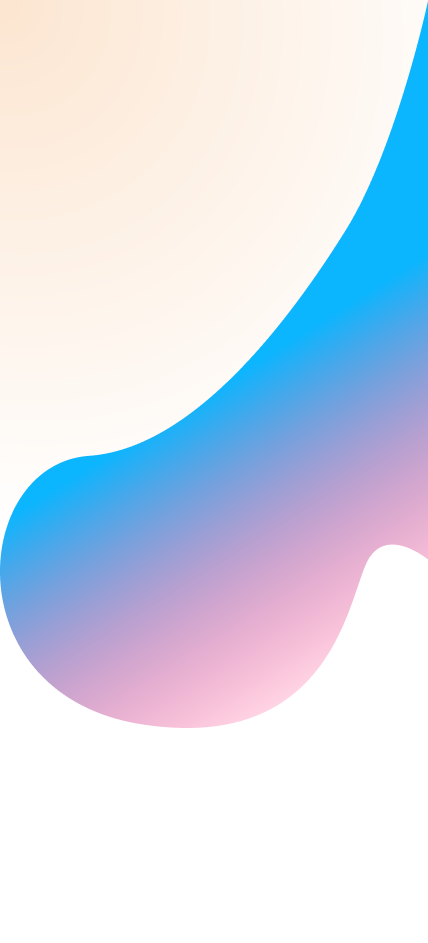
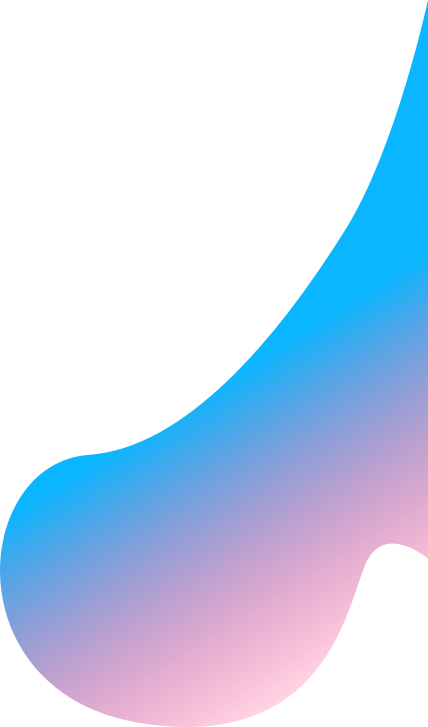
Настроить контент

diff --git a/src/css/style.min.css b/src/css/style.min.css
@@ -1,1 +1,1 @@
-@import'../fonts/Montserrat/stylesheet.css';@import'../fonts/ProtoSans/stylesheet.css';.container{width:100%;height:100%}*,*::before,*::after{-webkit-box-sizing:border-box;box-sizing:border-box;margin:0;padding:0}html{font-size:16px;-webkit-text-size-adjust:100%}body{font-family:pr-montserrat,sans-serif;line-height:1.5;color:#343434;background-color:#fff;-webkit-font-smoothing:antialiased;-moz-osx-font-smoothing:grayscale}a,a:link,a:visited{text-decoration:none;color:inherit}a:hover{text-decoration:none}aside,nav,footer,header,section,main{display:block}h1,h2,h3,h4,h5,h6,p{font-size:inherit;font-weight:inherit}ul,ol{list-style:none}img{max-width:100%;height:auto;display:block}img,svg{max-width:100%;height:auto}address{font-style:normal}input,textarea,button,select{font-family:inherit;font-size:inherit;color:inherit;background-color:rgba(0,0,0,0)}input::-ms-clear{display:none}button,input[type=submit]{display:inline-block;-webkit-box-shadow:none;box-shadow:none;background-color:rgba(0,0,0,0);background:none;cursor:pointer}input:focus,input:active,button:focus,button:active{outline:none}button::-moz-focus-inner{padding:0;border:0}label{cursor:pointer}legend{display:block}html,body{font-family:pr-montserrat,sans-serif}.header:has(.header__req-button>input:checked) .modal{opacity:1;z-index:1000}.header:has(.header__req-button>input:checked) .modal__content{top:50dvh;-webkit-transform:translate(-50%, -50%);transform:translate(-50%, -50%)}.header__content{display:-webkit-box;display:-ms-flexbox;display:flex;-webkit-box-pack:justify;-ms-flex-pack:justify;justify-content:space-between;-webkit-box-align:center;-ms-flex-align:center;align-items:center;-webkit-column-gap:20px;-moz-column-gap:20px;column-gap:20px;width:min(1700px,90dvw);height:100px;margin-inline:auto;padding:20px;background-color:#fff;position:fixed;top:0;left:50%;-webkit-transform:translateX(-50%);transform:translateX(-50%);z-index:2000}.header__content::after{content:"";position:absolute;top:100%;left:0;width:100%;height:2px;background-image:linear-gradient(179.35deg, rgb(10.6250047684, 181.6874542236, 255), rgb(255, 4.2499961853, 94.52003479) 100%)}.header__logo{height:60%}.header__logo-src{height:100%}.header__req-button{display:-webkit-box;display:-ms-flexbox;display:flex;-webkit-box-align:center;-ms-flex-align:center;align-items:center;-webkit-column-gap:10px;-moz-column-gap:10px;column-gap:10px;padding:10px;border:1px solid #ff055f;border-radius:5px;-webkit-transition:scale .2s ease;transition:scale .2s ease;-webkit-user-select:none;-moz-user-select:none;-ms-user-select:none;user-select:none}.header__req-button::before{content:"";width:21px;height:23px;background:url("../img/icons/form-btn--open.svg") center/cover no-repeat;-ms-flex-negative:0;flex-shrink:0}.header__req-button:hover{scale:1.05}.header__req-button label{color:#ff055f}.header__req-button input{display:none}.container{max-width:1330px;margin-inline:auto;padding:0 20px}.modal{width:100dvw;min-height:100dvh;background-color:#eaeaea;opacity:0;position:fixed;top:0;left:0;z-index:-1000;-webkit-transition:opacity .5s ease;transition:opacity .5s ease;overflow-y:scroll}.modal.active{opacity:1;z-index:1000}.modal__content{max-width:calc(100dvw - 40px);position:absolute;top:0;left:50%;-webkit-transform:translate(-50%, -100%);transform:translate(-50%, -100%);-webkit-transition:top .5s ease,-webkit-transform .2s ease;transition:top .5s ease,-webkit-transform .2s ease;transition:top .5s ease,transform .2s ease;transition:top .5s ease,transform .2s ease,-webkit-transform .2s ease}@media screen and (max-height: 768px){.modal__content{top:100px !important;-webkit-transform:translate(-50%, 20px) !important;transform:translate(-50%, 20px) !important}}.modal.active .modal__content{top:50dvh;-webkit-transform:translate(-50%, -50%);transform:translate(-50%, -50%)}.request{width:min(754px,100%);padding:min(60px,8%);background-color:#fff;border-radius:20px}.request__title{text-align:center;font-weight:700;font-size:32px;margin-bottom:min(60px,5dvh)}.request__form{display:-webkit-box;display:-ms-flexbox;display:flex;-webkit-box-orient:vertical;-webkit-box-direction:normal;-ms-flex-direction:column;flex-direction:column;-webkit-box-align:center;-ms-flex-align:center;align-items:center}.request__form input{width:100%;height:55px;padding:20px;margin-bottom:min(60px,5dvh);background-color:#eaeaea;border-radius:20px;border:none}.request__form input::-webkit-input-placeholder{color:#fff}.request__form input::-moz-placeholder{color:#fff}.request__form input:-ms-input-placeholder{color:#fff}.request__form input::-ms-input-placeholder{color:#fff}.request__form input::placeholder{color:#fff}.request__submit{width:min(300px,100%);height:73px;background-color:#0bb6ff;color:#fff;border-radius:20px;border:none}
+@import'../fonts/Montserrat/stylesheet.css';@import'../fonts/ProtoSans/stylesheet.css';.container,.hero__content,.hero__background{width:100%;height:100%}*,*::before,*::after{-webkit-box-sizing:border-box;box-sizing:border-box;margin:0;padding:0}html{font-size:16px;-webkit-text-size-adjust:100%}body{font-family:pr-montserrat,sans-serif;line-height:1.5;color:#343434;background-color:#fff;-webkit-font-smoothing:antialiased;-moz-osx-font-smoothing:grayscale}a,a:link,a:visited{text-decoration:none;color:inherit}a:hover{text-decoration:none}aside,nav,footer,header,section,main{display:block}h1,h2,h3,h4,h5,h6,p{font-size:inherit;font-weight:inherit}ul,ol{list-style:none}img{max-width:100%;height:auto;display:block}img,svg{max-width:100%;height:auto}address{font-style:normal}input,textarea,button,select{font-family:inherit;font-size:inherit;color:inherit;background-color:rgba(0,0,0,0)}input::-ms-clear{display:none}button,input[type=submit]{display:inline-block;-webkit-box-shadow:none;box-shadow:none;background-color:rgba(0,0,0,0);background:none;cursor:pointer}input:focus,input:active,button:focus,button:active{outline:none}button::-moz-focus-inner{padding:0;border:0}label{cursor:pointer}legend{display:block}html,body{font-family:pr-montserrat,sans-serif}.header:has(.header__req-button>input:checked) .modal{opacity:1;z-index:1000}.header:has(.header__req-button>input:checked) .modal__content{top:50dvh;-webkit-transform:translate(-50%, -50%);transform:translate(-50%, -50%)}.header__content{display:-webkit-box;display:-ms-flexbox;display:flex;-webkit-box-pack:justify;-ms-flex-pack:justify;justify-content:space-between;-webkit-box-align:center;-ms-flex-align:center;align-items:center;-webkit-column-gap:20px;-moz-column-gap:20px;column-gap:20px;width:min(1700px,90dvw);height:100px;margin-inline:auto;padding:20px;background-color:#fff;position:fixed;top:0;left:50%;-webkit-transform:translateX(-50%);transform:translateX(-50%);z-index:2000}.header__content::after{content:"";position:absolute;top:100%;left:0;width:100%;height:2px;background-image:linear-gradient(179.35deg, rgb(10.6250047684, 181.6874542236, 255), rgb(255, 4.2499961853, 94.52003479) 100%)}.header__logo{height:60%}.header__logo-src{height:100%}.header__req-button{display:-webkit-box;display:-ms-flexbox;display:flex;-webkit-box-align:center;-ms-flex-align:center;align-items:center;-webkit-column-gap:10px;-moz-column-gap:10px;column-gap:10px;padding:10px;border:1px solid #ff055f;border-radius:5px;-webkit-transition:scale .2s ease;transition:scale .2s ease;-webkit-user-select:none;-moz-user-select:none;-ms-user-select:none;user-select:none}.header__req-button::before{content:"";width:21px;height:23px;background:url("../img/icons/form-btn--open.svg") center/cover no-repeat;-ms-flex-negative:0;flex-shrink:0}.header__req-button:hover{scale:1.05}.header__req-button label{color:#ff055f}.header__req-button input{display:none}.hero{position:relative;height:100dvh}.hero__content{position:relative;z-index:2}.hero__background{position:absolute;inset:0}.hero__content{width:calc(100% - 1020px);padding-top:120px}.hero__background-main{height:91.2037037037%;aspect-ratio:1023/806;position:absolute;top:0;right:0}.hero__blob{height:76.1421319797%;position:absolute;top:0;right:0}.hero__general-image{height:67.9187817259%;aspect-ratio:1.153961136;padding-left:20px;border:4px solid #fff;border-radius:20px;-webkit-box-shadow:0px 4px 50px 0px rgba(0,0,0,.25);box-shadow:0px 4px 50px 0px rgba(0,0,0,.25);backdrop-filter:blur(30px);background:hsla(0,0%,100%,.8);position:absolute;top:50%;right:0;-webkit-transform:translateY(-50%);transform:translateY(-50%)}.hero__panel{height:49.6263079223%;position:absolute;top:20px;left:0;-webkit-transform:translateX(-75%);transform:translateX(-75%);z-index:2}.hero__background-mobile{display:none}.hero__background-mobile>img{width:100%}@media screen and ((max-width: 768px) or (orientation: portrait)){.hero__background-main{display:none}.hero__background-mobile{display:block}}.container{max-width:1330px;margin-inline:auto;padding:0 20px}.modal{width:100dvw;min-height:100dvh;background-color:#eaeaea;opacity:0;position:fixed;top:0;left:0;z-index:-1000;-webkit-transition:opacity .5s ease;transition:opacity .5s ease;overflow-y:scroll}.modal.active{opacity:1;z-index:1000}.modal__content{max-width:calc(100dvw - 40px);position:absolute;top:0;left:50%;-webkit-transform:translate(-50%, -100%);transform:translate(-50%, -100%);-webkit-transition:top .5s ease,-webkit-transform .2s ease;transition:top .5s ease,-webkit-transform .2s ease;transition:top .5s ease,transform .2s ease;transition:top .5s ease,transform .2s ease,-webkit-transform .2s ease}@media screen and (max-height: 768px){.modal__content{top:100px !important;-webkit-transform:translate(-50%, 20px) !important;transform:translate(-50%, 20px) !important}}.modal.active .modal__content{top:50dvh;-webkit-transform:translate(-50%, -50%);transform:translate(-50%, -50%)}.request{width:min(754px,100%);padding:min(60px,8%);background-color:#fff;border-radius:20px}.request__title{text-align:center;font-weight:700;font-size:32px;margin-bottom:min(60px,5dvh)}.request__form{display:-webkit-box;display:-ms-flexbox;display:flex;-webkit-box-orient:vertical;-webkit-box-direction:normal;-ms-flex-direction:column;flex-direction:column;-webkit-box-align:center;-ms-flex-align:center;align-items:center}.request__form input{width:100%;height:55px;padding:20px;margin-bottom:min(60px,5dvh);background-color:#eaeaea;border-radius:20px;border:none}.request__form input::-webkit-input-placeholder{color:#fff}.request__form input::-moz-placeholder{color:#fff}.request__form input:-ms-input-placeholder{color:#fff}.request__form input::-ms-input-placeholder{color:#fff}.request__form input::placeholder{color:#fff}.request__submit{width:min(300px,100%);height:73px;background-color:#0bb6ff;color:#fff;border-radius:20px;border:none}

diff --git a/src/scss/layout/_hero.scss b/src/scss/layout/_hero.scss
@@ -1,0 +1,82 @@
+.hero {
+    @include section-position;
+    height: 100dvh;
+
+    $background-width-main: 1920 - 900;
+    $background-height-main: 1080 - 95;
+
+    $general-image-width: 772;
+    $general-image-height: 669;
+
+    $panel-height: 332;
+
+    $blob-height-main: 750;
+
+    &__content {
+        width: calc(100% - #{$background-width-main}px);
+        padding-top: $header-height + $grid-gap;
+    }
+
+    &__background-main {
+        height: ($background-height-main) / 1080 * 100%;
+        aspect-ratio: 1023 / 806;
+
+        position: absolute;
+        top: 0;
+        right: 0;
+    }
+
+    &__blob {
+        height: $blob-height-main / $background-height-main * 100%;
+
+        position: absolute;
+        top: 0;
+        right: 0;
+    }
+
+    &__general-image {
+        height: $general-image-height / $background-height-main * 100%;
+        aspect-ratio: $general-image-width / $general-image-height;
+
+        padding-left: $grid-gap;
+
+        border: 4px solid rgba(255, 255, 255, 1);
+        border-radius: 20px;
+        box-shadow: 0px 4px 50px 0px rgba(0, 0, 0, 0.25);
+        backdrop-filter: blur(30px);
+        background: rgba(255, 255, 255, 0.8);
+
+        position: absolute;
+        top: 50%;
+        right: 0;
+        transform: translateY(-50%);
+    }
+
+    &__panel {
+        height: $panel-height / $general-image-height * 100%;
+
+        position: absolute;
+        top: $grid-gap;
+        left: 0;
+        transform: translateX(-75%);
+        z-index: 2;
+    }
+
+    &__background-mobile {
+        display: none;
+
+        &>img {
+            width: 100%;
+        }
+    }
+
+    @media screen and ((max-width: $breakpoint-md) or (orientation: portrait)) {
+        &__background-main {
+            display: none;
+        }
+
+        &__background-mobile {
+            display: block;
+        }
+    }
+}

diff --git a/src/css/style.css b/src/css/style.css
@@ -1,6 +1,6 @@
 @import '../fonts/Montserrat/stylesheet.css';
 @import '../fonts/ProtoSans/stylesheet.css';
-.container {
+.container, .hero__content, .hero__background {
   width: 100%;
   height: 100%;
 }
@@ -195,6 +195,75 @@ body {
 }
 .header__req-button input {
   display: none;
+}
+
+.hero {
+  position: relative;
+  height: 100dvh;
+}
+.hero__content {
+  position: relative;
+  z-index: 2;
+}
+.hero__background {
+  position: absolute;
+  inset: 0;
+}
+.hero__content {
+  width: calc(100% - 1020px);
+  padding-top: 120px;
+}
+.hero__background-main {
+  height: 91.2037037037%;
+  aspect-ratio: 1023/806;
+  position: absolute;
+  top: 0;
+  right: 0;
+}
+.hero__blob {
+  height: 76.1421319797%;
+  position: absolute;
+  top: 0;
+  right: 0;
+}
+.hero__general-image {
+  height: 67.9187817259%;
+  aspect-ratio: 1.153961136;
+  padding-left: 20px;
+  border: 4px solid rgb(255, 255, 255);
+  border-radius: 20px;
+  -webkit-box-shadow: 0px 4px 50px 0px rgba(0, 0, 0, 0.25);
+          box-shadow: 0px 4px 50px 0px rgba(0, 0, 0, 0.25);
+  backdrop-filter: blur(30px);
+  background: rgba(255, 255, 255, 0.8);
+  position: absolute;
+  top: 50%;
+  right: 0;
+  -webkit-transform: translateY(-50%);
+          transform: translateY(-50%);
+}
+.hero__panel {
+  height: 49.6263079223%;
+  position: absolute;
+  top: 20px;
+  left: 0;
+  -webkit-transform: translateX(-75%);
+          transform: translateX(-75%);
+  z-index: 2;
+}
+.hero__background-mobile {
+  display: none;
+}
+.hero__background-mobile > img {
+  width: 100%;
+}
+@media screen and ((max-width: 768px) or (orientation: portrait)) {
+  .hero__background-main {
+    display: none;
+  }
+  .hero__background-mobile {
+    display: block;
+  }
 }
 
 .container {

diff --git a/index.html b/index.html
@@ -35,6 +35,34 @@
             </div>
         </div>
     </header>
+
+    <main class="main">
+        <section class="hero">
+            <div class="hero__content">
+                <h1 class="hero__title">
+                    Дизайн, верстка и разработка сайтов
+                </h1>
+
+                <a href="" class="to-down-btn">
+                    <img src="./src/img/icons/header-button-arrow.svg" alt="Стрелка вниз">
+                </a>
+            </div>
+
+            <div class="hero__background">
+                <div class="hero__background-main">
+                    <img src="./src/img/images/header-bg.png" class="hero__blob">
+                    <div class="hero__general-image">
+                        <img src="./src/img/images/header-knight.png" alt="Рыцарь" class="hero__knight">
+                        <img src="./src/img/images/header-pannel.png" alt="Панель с иконками" class="hero__panel">
+                    </div>
+                </div>
+                
+                <div class="hero__background-mobile">
+                    <img src="./src/img/images/header-bg-mobile.png" class="hero__blob--mobile">
+                </div>
+            </div>
+        </section>
+    </main>
 </body>
 
 </html>

diff --git a/src/scss/style.scss b/src/scss/style.scss
@@ -13,6 +13,7 @@
 
 // Layout
 @import 'layout/header';
+@import 'layout/hero';
 @import 'layout/footer';
 
 // Components
